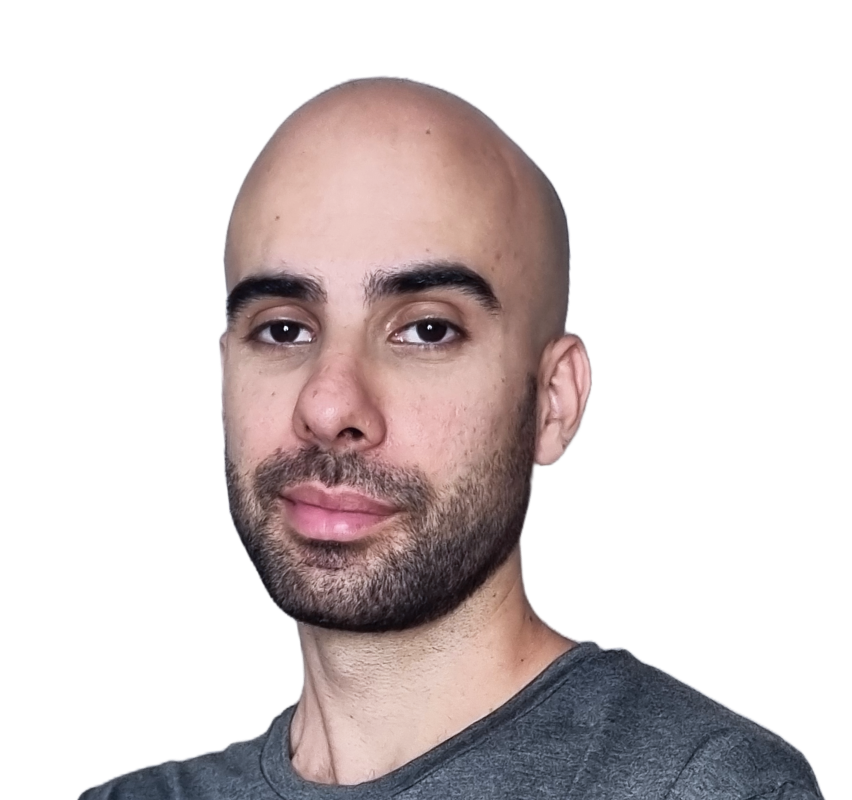
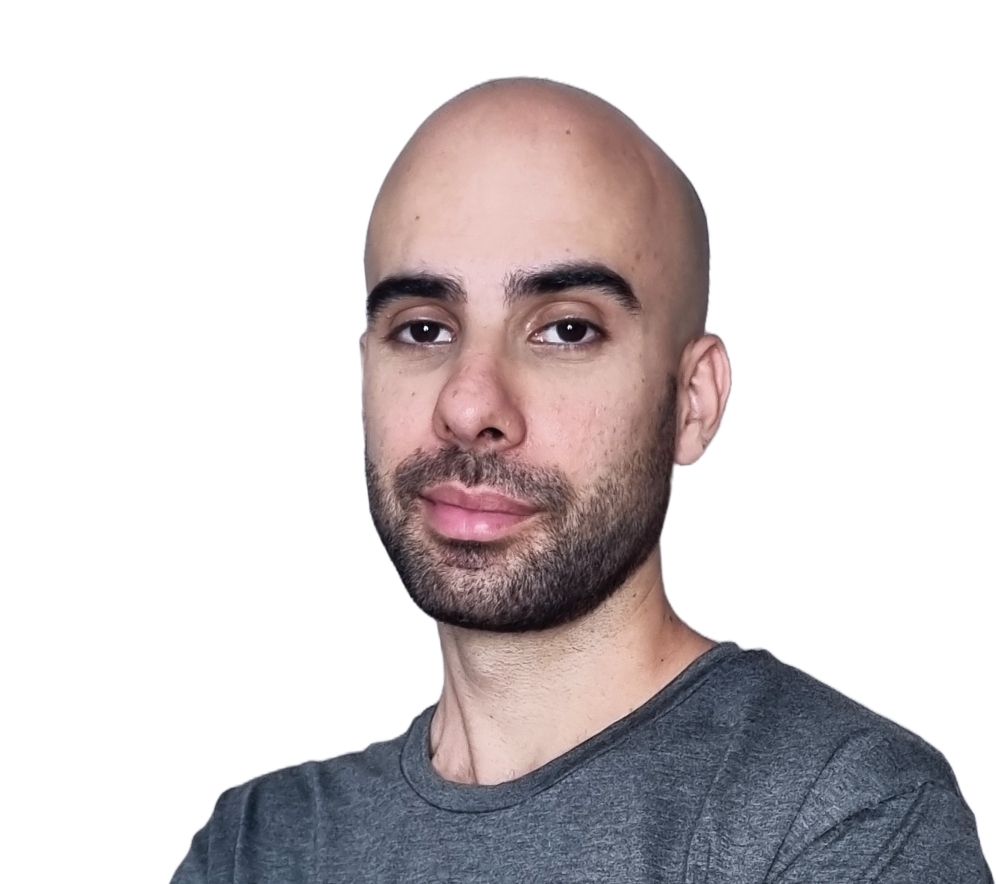
a

diff --git a/scripts/main.js b/scripts/main.js
@@ -43,3 +43,172 @@ letters.forEach(letter => {
     });
 
 });
+
+/*(function () {
+  const viewport   = document.querySelector('.social-carousel-viewport');
+  const track       = document.getElementById('socialCarouselTrack');
+  const prevBtn     = document.querySelector('.social-carousel-nav-prev');
+  const nextBtn     = document.querySelector('.social-carousel-nav-next');
+  const dotsWrap    = document.getElementById('socialCarouselDots');
+ 
+  const AUTOPLAY_MS = 5000; // change every few seconds here
+ 
+  // 1. Grab the real cards, then clone the first and last for a seamless loop
+  const realCards = Array.from(track.children);
+  const slideCount = realCards.length;
+ 
+  const firstClone = realCards[0].cloneNode(true);
+  const lastClone  = realCards[slideCount - 1].cloneNode(true);
+  firstClone.setAttribute('aria-hidden', 'true');
+  lastClone.setAttribute('aria-hidden', 'true');
+ 
+  track.insertBefore(lastClone, track.firstChild);
+  track.appendChild(firstClone);
+ 
+  // index 0 = lastClone, index 1..slideCount = real cards, index slideCount+1 = firstClone
+  let currentIndex = 1;
+  let step = 0; // px per slide, computed below
+  let autoplayTimer = null;
+  let isDragging = false;
+  let dragStartX = 0;
+  let dragDelta = 0;
+ 
+  function measureStep() {
+    const card = track.children[currentIndex];
+    const style = getComputedStyle(track);
+    const gap = parseFloat(style.gap || style.columnGap || '0');
+    step = card.getBoundingClientRect().width + gap;
+  }
+ 
+  function goTo(index, animate = true) {
+    track.style.transition = animate ? 'transform 0.5s ease' : 'none';
+    track.style.transform = `translateX(${-index * step}px)`;
+    currentIndex = index;
+    updateDots();
+  }
+ 
+  function next() {
+    goTo(currentIndex + 1);
+  }
+ 
+  function prev() {
+    goTo(currentIndex - 1);
+  }
+ 
+  // Snap invisibly when we land on a clone, so the loop feels infinite
+  track.addEventListener('transitionend', () => {
+    if (currentIndex === slideCount + 1) {
+      currentIndex = 1;
+      goTo(currentIndex, false);
+    } else if (currentIndex === 0) {
+      currentIndex = slideCount;
+      goTo(currentIndex, false);
+    }
+  });
+ 
+  // ---------- dots ----------
+  function buildDots() {
+    dotsWrap.innerHTML = '';
+    for (let i = 0; i < slideCount; i++) {
+      const dot = document.createElement('button');
+      dot.type = 'button';
+      dot.className = 'social-carousel-dot';
+      dot.setAttribute('aria-label', `Ir para depoimento ${i + 1}`);
+      dot.addEventListener('click', () => {
+        goTo(i + 1); // +1 to account for the lastClone at index 0
+        restartAutoplay();
+      });
+      dotsWrap.appendChild(dot);
+    }
+    updateDots();
+  }
+ 
+  function updateDots() {
+    const realIndex = ((currentIndex - 1) + slideCount) % slideCount;
+    Array.from(dotsWrap.children).forEach((dot, i) => {
+      dot.classList.toggle('is-active', i === realIndex);
+    });
+  }
+ 
+  // ---------- autoplay ----------
+  function startAutoplay() {
+    stopAutoplay();
+    autoplayTimer = setInterval(next, AUTOPLAY_MS);
+  }
+  function stopAutoplay() {
+    if (autoplayTimer) clearInterval(autoplayTimer);
+  }
+  function restartAutoplay() {
+    startAutoplay();
+  }
+ 
+  // ---------- manual buttons ----------
+  nextBtn.addEventListener('click', () => {
+    next();
+    restartAutoplay();
+  });
+  prevBtn.addEventListener('click', () => {
+    prev();
+    restartAutoplay();
+  });
+ 
+  // pause while the user is reading / hovering / focused inside
+  viewport.addEventListener('mouseenter', stopAutoplay);
+  viewport.addEventListener('mouseleave', startAutoplay);
+  viewport.addEventListener('focusin', stopAutoplay);
+  viewport.addEventListener('focusout', startAutoplay);
+ 
+  // ---------- swipe / drag support ----------
+  function pointerDown(x) {
+    isDragging = true;
+    dragStartX = x;
+    dragDelta = 0;
+    track.classList.add('is-dragging');
+    stopAutoplay();
+  }
+  function pointerMove(x) {
+    if (!isDragging) return;
+    dragDelta = x - dragStartX;
+    track.style.transform = `translateX(${-currentIndex * step + dragDelta}px)`;
+  }
+  function pointerUp() {
+    if (!isDragging) return;
+    isDragging = false;
+    track.classList.remove('is-dragging');
+ 
+    const threshold = step * 0.2; // drag more than 20% of a card to trigger a swipe
+    if (dragDelta < -threshold) {
+      next(); // swiped left -> go to next testimonial
+    } else if (dragDelta > threshold) {
+      prev(); // swiped right -> go to previous testimonial
+    } else {
+      goTo(currentIndex); // snap back
+    }
+    restartAutoplay();
+  }
+ 
+  // touch
+  viewport.addEventListener('touchstart', (e) => pointerDown(e.touches[0].clientX), { passive: true });
+  viewport.addEventListener('touchmove',  (e) => pointerMove(e.touches[0].clientX), { passive: true });
+  viewport.addEventListener('touchend',   pointerUp);
+ 
+  // mouse drag (nice to have on desktop too)
+  viewport.addEventListener('mousedown', (e) => { e.preventDefault(); pointerDown(e.clientX); });
+  window.addEventListener('mousemove', (e) => pointerMove(e.clientX));
+  window.addEventListener('mouseup', pointerUp);
+ 
+  // ---------- init ----------
+  function init() {
+    measureStep();
+    goTo(currentIndex, false);
+    buildDots();
+    startAutoplay();
+  }
+ 
+  window.addEventListener('resize', () => {
+    measureStep();
+    goTo(currentIndex, false);
+  });
+ 
+  init();
+})();*/

diff --git a/components/component-pay-button.js b/components/component-pay-button.js
@@ -34,16 +34,14 @@ class ComponentPayButton extends HTMLElement{
                     transition: background-color 0.2s, box-shadow 0.2s, transform 0.2s;
 
                     /* Pulsing glow animation */
-                    animation: glow-pulse 2.5s ease-in-out infinite;
+                    animation: glow-pulse 4s ease-in-out infinite;
                 }
 
                 @keyframes glow-pulse {
                     0%, 100% {
-                        box-shadow: 0px 0px 16px var(--sunset600);
                         background-color: var(--sunset600);
                     }
                     50% {
-                        box-shadow: 0px 0px 16px var(--cerulean600);
                         background-color: var(--cerulean600);
                     }
                 }

diff --git a/components/component-button.js b/components/component-button.js
@@ -43,16 +43,14 @@ class ComponentButton extends HTMLElement{
                     transition: background-color 0.2s, box-shadow 0.2s, transform 0.2s;
 
                     /* Pulsing glow animation */
-                    animation: glow-pulse 2.5s ease-in-out infinite;
+                    animation: glow-pulse 4s ease-in-out infinite;
                 }
 
                 @keyframes glow-pulse {
                     0%, 100% {
-                        box-shadow: 0px 0px 16px var(--sunset600);
                         background-color: var(--sunset600);
                     }
                     50% {
-                        box-shadow: 0px 0px 16px var(--cerulean600);
                         background-color: var(--cerulean600);
                     }
                 }

diff --git a/styles/home.css b/styles/home.css
@@ -1,13 +1,13 @@
 .profile-picture-container {
-    margin-bottom: 16px;
-    background-image: linear-gradient(to top, var(--sunset600) -80%, var(--graycool1000));
+    margin-bottom: 40px;
+    background-image: linear-gradient(to top, var(--sunset600), var(--graycool1000));
 }
 
 .profile-picture-container img {
     display: block;
     margin-left: auto;
     margin-right: auto;
-    width: 216px;
+    width: 264px;
     height: auto;
 }
 

diff --git a/aulas.html b/aulas.html
@@ -364,9 +364,6 @@
                     </div>
                 </div>
             </div>
-            <component-button>
-                QUERO SER MAIS CONFIANTE
-            </component-button>
         </div>
     </section>
 

diff --git a/styles/socialproof.css b/styles/socialproof.css
@@ -52,3 +52,5 @@
     from {translate: 0;}
     to {translate: -100%;}
 }
+
+
